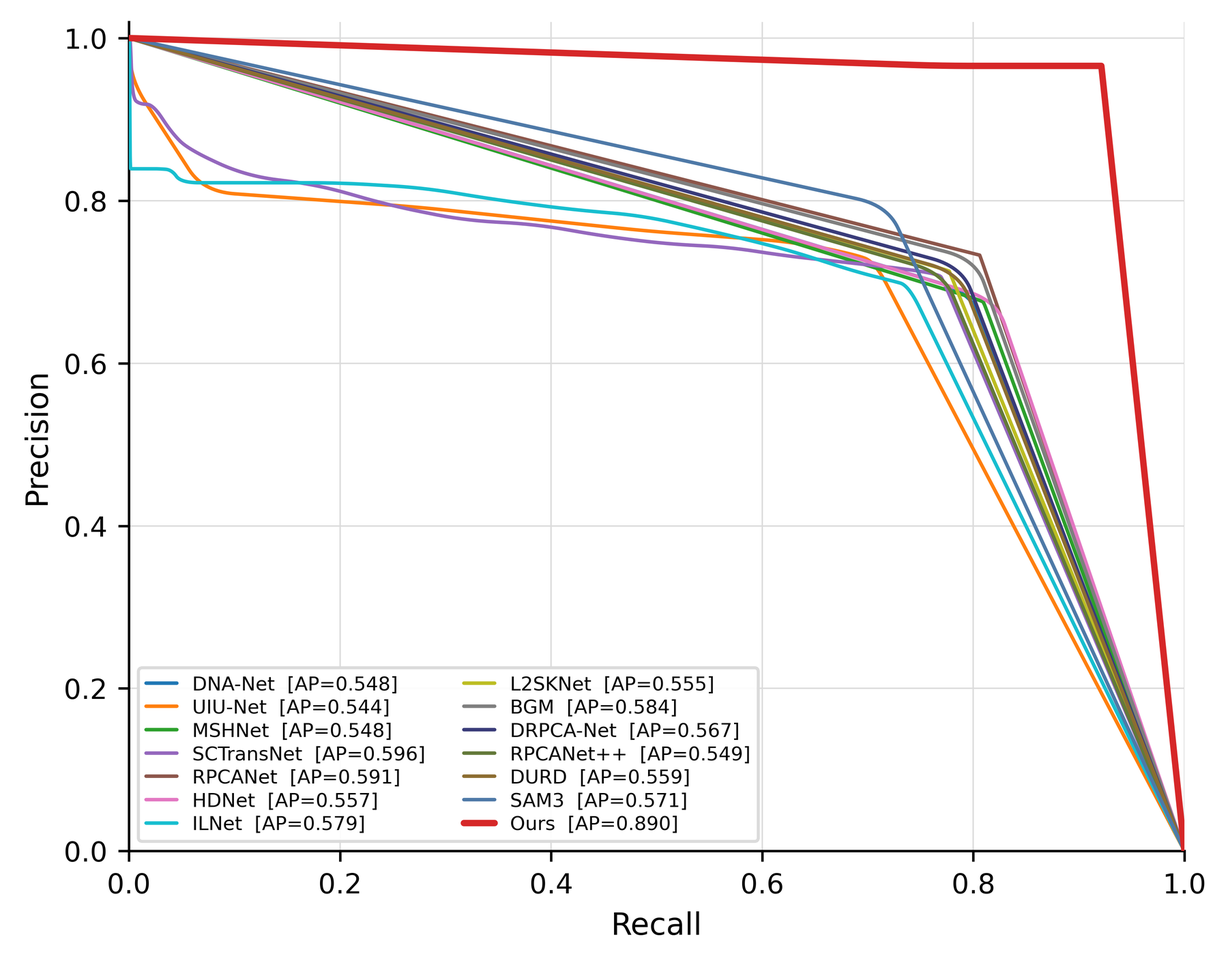
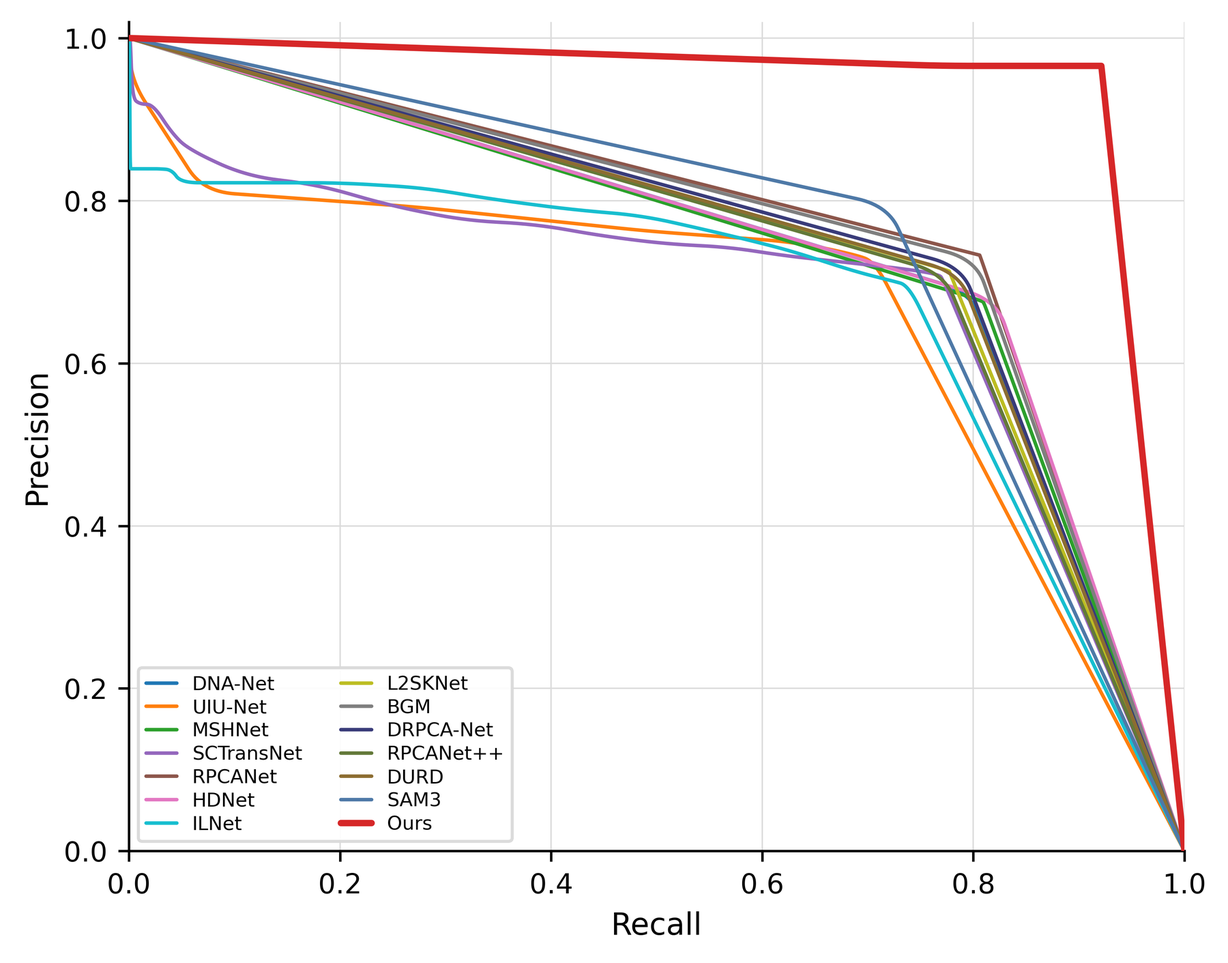
pr_obj 图例只保留方法名
- 去掉图例里每个方法后的 "[AP=0.xxx]"，图例回到 14 个纯方法名；
- plot_pr_object.py 新增 --show-ap 开关（默认关），需要把 AP 标回图上时再打开；
- AP 数值仍完整记录在 docs/Seal_ROC_PR曲线.md 的表里，不丢数据；
- pr_obj.png sha256 c1d2212c…，已同步服务器；docs 预览与 AGENTS/README 同步。

Changed region(s): [[0.1556, 0.686, 0.6222, 0.8731]]

diff --git a/tools/plot_pr_object.py b/tools/plot_pr_object.py
@@ -126,6 +126,10 @@ def main():
     ap.add_argument('--highlight', default='Ours')
     ap.add_argument('--legend-loc', default='lower left')
     ap.add_argument('--legend-ncol', type=int, default=2)
+    ap.add_argument('--show-ap', dest='show_ap', action='store_true',
+                    help='append "[AP=0.xxx]" to each legend entry')
+    ap.add_argument('--no-show-ap', dest='show_ap', action='store_false')
+    ap.set_defaults(show_ap=False)
     ap.add_argument('--corner-radius', type=float, default=0.018,
                     help='fillet radius in axis units for the elbows (0 = sharp corners)')
     ap.add_argument('--close', dest='close', action='store_true',
@@ -159,7 +163,7 @@ def main():
         ax.plot(xs, ys, color=cmap[m['label']], solid_capstyle='round',
                 solid_joinstyle='round',
                 lw=2.1 if main_ else 1.15, zorder=6 if main_ else 3,
-                label=f"{m['label']}  [AP={score:.3f}]")
+                label=f"{m['label']}  [AP={score:.3f}]" if args.show_ap else m['label'])
 
     ax.set_xlim(0, 1.0)
     ax.set_ylim(0, 1.02)

diff --git a/README.md b/README.md
@@ -61,6 +61,7 @@
 - 热红外 8 位转换结论：用 1–99 百分位裁剪再拉伸会放大约 10 倍背景噪声（目标 SNR 降到 1.5），纯区域损失退化为常数输出（val IoU 恒为 0）；改为逐图 min-max 后目标与背景差值是背景 std 的 2.2–29.7 倍，训练正常。后续不得再用百分位裁剪生成输入。
 - 表中位置：第 21～32 行，Modal 记 `T`，Supervision 记 `Full GT`，重训/测试列写明「Seal train 全监督重训 → Seal test」。第 21～23 行为第一批（2022–2024），第 24～28 行为第二批（2024/2025/2026），第 29～32 行为第三批（2025–2026）。第 33 行为 SAM3（RGB、Full GT、官方权重测试），第 34～35 行为本文方法变体（B+Fusion 已填、多模态 LoRA+Fusion 待填），第 34/35 行不是对比方法。这些行与第 3～20 行的弱监督跨域结果不是同一协议，不能互相替代或混填。
 - 论文采用的对比集合（**8 个**，重点维护）：**DNA-Net、MSHNet、RPCANet、HDNet、L2SKNet、BGM、RPCANet++、SAM3**。这 8 个是正文表格、定性图（11 样例、7 列版式）、ROC / P-R 曲线（`Ours/roc_pr/v10`，P-R 展示改进见 `v13`）与复杂度对照所用的集合；其余 4 个（UIU-Net、SCTransNet、ILNet、DURD）作为补充基线保留在第 21～32 行与各自实验记录中，不进入正文主对比。改动其中之一（权重、epoch、指标）仍须走本文档的全监督协议并同步实验记录。
+- 投稿稿在 `Ours/RGB_T_STD_RS/`（MDPI 模板，正文 `AS4000.tex`，**该目录尚未纳入 git**）。`tab:comparison`（`\begin{table*}[t]`，约第 981 行起）**2026-11-05 起改为 13 个全监督基线 + Ours 共 14 行**：在原 8 个之外补入 UIU-Net（TIP23）、SCTransNet（TGRS24）、ILNet（TAES25）、DRPCA-Net（TGRS25）、DURD（TGRS26），数值取自 `docs/Seal量化SOTA表.xlsx` 第 23/24/27/31/32 行，按表内既有规则取两位小数（FPS 先把 xlsx 值取一位小数再补成两位，例如 118.39→118.40、11.23→11.20；Fa 由 ×10⁻⁶ 值取两位）。**最/次优标记已在 2026-11-05 修正**：Fa 列基线间改为 ILNet `\best{19.30}`、SCTransNet `\second{25.28}`，HDNet 54.50 与 MSHNet 67.28 去掉标记（两行的 GFLOPs/Pd 标记仍有效）；用 `tmp/check_paper_table.py` 逐列校验过，7 列（Params/GFLOPs/FPS/IoU/F1/Pd/Fa）的 best/second 与数值全部一致，比较只在 13 个基线之间进行、Ours 行不参与（其 17.17 虽最低但不标）。**遗留问题**：① 表内 Ours 行**按用户决定保留** 9.09 / 110.11 / 13.61（Params 为可训练参数 M1+LoRA3+模态 LoRA≈9.08 M 的口径，与 2026-11-05 实测全网络 1690.108 M / 5935.732 GFLOPs / 9.65 FPS@1008² 不同，用户明确不改）；SAM3 行 473.59 / 7149.94 / 3.30 同样保留；表注不写 Ours 1008² 与基线 256² 单窗的口径差（用户决定不加）；② ILNet、DRPCA-Net、DURD 在 `ref.bib` 与 Related Work 中都没有引用条目，**用户表示后续自行补**，不要代改 `ref.bib`。
 - 复杂度（表中 `Params↓ / GFLOPs↓ / FPS↑` 三列，行 21～32）：单窗 `1×C×256×256`、FP32、batch 1、RTX 5090 实测，脚本 [tools/measure_complexity_one.py](tools/measure_complexity_one.py)（`--kind` 选方法，cwd 须为方法目录），原始 JSON 在服务器 `results/complexity/<kind>.json`。`Params` 取全部 `nn.Parameter`（不是 thop 的计数）；`GFLOPs` 取 thop **MACs**，即各论文写 "FLOPs/GFLOPs" 时的实际口径；`FPS` = 1/中位延迟（三轮 × 每轮 50 次 warm-up + 100 次计时，取最好一轮的中位数；每轮前先做负载把 GPU 时钟从空闲的 180 MHz 拉满，不预热会把 HDNet 误测成 155 ms）。Seal test 一张 622×417 是 **12 个滑窗**，故单图成本 ≈ 12×GFLOPs、单图吞吐 ≈ FPS/12。
 - 第 20 行 Ours 的同一三列是**原生 1008×1008 单图**实测（SAM3 视觉主干的 2D rope 频率表按 `input_size=1008` 固定，喂不进 256²）：**Params 1690.108 M**（两支冻结 SAM3 各 843.672 + LoRA3 1.573 + M1 1.191，真正可训练只有 2.764 M）、**GFLOPs 5935.732**（`FlopCounterMode` 的乘加数；thop 不统计 SDPA 会漏算）、**FPS 9.65**（中位 103.61 ms，bf16，每图 1 次前向、不需滑窗；`Ours/CODE/efficiency.py` 自带结果为 1690.11 / 5935.73 / 9.72，与复核一致到 0.7 %）。这些数字**与行 21～32 的 256² 单窗不是同一协议**，正文与表注必须写清；换算成单图可比量后 Ours 是 5935.7 G/图、9.65 图/秒（最重的 RPCANet++ 为 2288.0 G/图、6.70 图/秒）。同 harness 变体：B+Fusion 841.70 / 5886.80 / 11.28，CM-LoRA+BISF（无 LoRA3）1688.53 / 5919.42 / 10.34。原始 JSON 在服务器 `results/complexity/ours_code.json`，日志在 `results/complexity/logs/`，复现脚本 `tmp/run_eff_1008.sh`、`tmp/run_eff_variants.sh`、`tmp/verify_eff.py`；口径与读法见 [Seal 复杂度指标说明](docs/Seal复杂度指标_说明.md)。服务器副本在 `Ours/CODE/`（只含代码、`SAM3_LoRA/`、`outputs/*/best/lora_weights.pt`、`train_logs2/`，不含 `test_maps` 与 `ablation` 图像）。
 - 复杂度与公开值的对照：有公开 Params 的 9 个与原论文/作者仓库一致（RPCANet++ 的 2.915 vs 2.962 是 thop 不计 `nn.LSTM` 的约定差，thop 口径 2.915336 M、全部参数 2.961582 M，模型相同）；ILNet 论文首页的 0.046 M / 2.19 GFLOPs 指 `ILNet_S`（实测 0.045980 M、512² 下 2.2146 G，与 2.19 G 差 1.1 %），本表训练的是仓库默认 `ILNet_L`（4.040 M），两者不是同一网络；BGM（`BasicUNet_plus` 主干）与 DURD（TGRS26 新文）两文及仓库均未给可比数字，只有我们的实测值。GFLOPs 与第三方 LPCNet 表（RTX 3090，arXiv:2607.04603v3 Tab. I）逐项吻合到 0.4–2.7 %（DNA-Net 14.282 vs 13.9、UIU-Net 54.501 vs 54.2、SCTransNet 10.119 vs 10.0、RPCANet 44.569 vs 44.3、RPCANet++ 190.669 vs 190），据此确认"论文 FLOPs = MACs"；PDDiff 表对 SCTransNet/HDNet 正好 2×、对 MSHNet 3.15×，属其自身口径问题，不作基准。FPS 跨论文不可比（PDDiff 是含整图滑窗的管线口径，ILNet 在 Jetson AGX Xavier 上测）：同批 5090 相对 3090 快 2.1–4.6×，只有 DNA-Net 为 1.45×（延迟由小卷积启动主导，复测分布很紧，非测错）。
@@ -69,7 +70,7 @@
 - 第三批（入表，行 29～32）：L2SKNet（TGRS25）、BGM（TGRS25）、DRPCA-Net（TGRS25）、DURD（TGRS26），均为 2025–2026 年、有官方代码的全监督单帧方法，12 个对比方法到此凑满。目录 `L2SKNet-main/`、`BGM-main/`、`DRPCA-Net-main/`、`DURD-main/`；训练设置：L2SKNet 150/Adam 5e-4、BGM 150/Adam 5e-4（两者模型输出已是概率，用概率空间 dataset 级 IoU）、DRPCA-Net 60/Adam 3e-5/dataset 级 SoftIoU + 0.01 MSE、DURD 100/Adam 1e-4/SoftIoU + 0.1 MSE。各处改动逐条写在对应实验记录与 [汇总](docs/Seal全监督基线评估汇总.md#训练不稳定与失败记录)。
 - 论文版式定性图（对齐 PDDiff Fig. 8/9）：[tools/build_paper_qualitative.py](tools/build_paper_qualitative.py)，每个样例两行（2D 二值面板 + 红框/放大插图；3D 响应面 `elev=26, azim=-64`、按面板 z 上限）。三条硬约束：① 3D 行必须喂**概率图**（`--surf-maps results/<M>/Seal/fullsup_test_maps`），二值图是 0/255 阶跃，画出来只有一根尖刺；② Seal 目标只有 3–5 px，`full` 版式（整幅 + 右下插图）在 0.87 in 列宽下几乎看不见，正式图用 `--roi-panels`（面板 = 6 倍放大 ROI，`--roi-min 64 --roi-margin 24`）；③ 11 列 × 11 样例按 9.6 in 出图，若按 7.2 in 排版表头掉到 5.6 pt，主图应拆成 `seal_pick6_roi` + `seal_pick5_roi` 两张。样例取 [docs/qualitative_rank_top200.json](docs/qualitative_rank_top200.json)（`score = F1(Ours) − mean_k F1(baseline_k)`，可用 [docs/qualitative_review_top200.html](docs/qualitative_review_top200.html) 逐图复核），当前采用排名 1,2,5,6,8,11,13,15,19,21,29 共 11 张，一键重建 [tools/make_paper_qualitative_pick.sh](tools/make_paper_qualitative_pick.sh)。Ours 预测在 `Ours/test_maps`（1,983 张概率图）、SAM3 在 `Ours/SAM3-test_maps`（同阈值 `>=128`）。版式规格、样例清单与读数见 [docs/Seal定性图_论文版式.md](docs/Seal定性图_论文版式.md)，预览 `docs/assets/seal_qualitative_pick6_roi.png`、`docs/assets/seal_qualitative_pick11_full.png`。全分辨率成品（600 dpi PNG + 矢量 PDF + meta，约 110 MB/版）按版本归档：服务器保留全部历史（v1 `Ours/qualitative/v1_20261104_11col/`、v2 `v2_20261105/`、v3 `v3_20261105/`、v4 `v4_20261105/`、v5 `v5_20261105/`、v6 `v6_20261105/`、v7 `v7_20261105/`、v8 `v8_20261105/`、v9 `v9_20261105/`、v10 `v10_20261105/`、v11 `v11_20261105/`、v12 `v12_20261105/`），本地只留最新一版在 `Ours/qualitative/v12_20261105/`；**整个 `Ours/qualitative/` 不进 git**（`.gitignore` 整目录排除，只有 `docs/assets/` 里的 1800 px 预览入库）。版式演进：v2 压紧列间距、3D 加网格 + 整数刻度 + 轴名、去掉黑色粗轴线；v3 加单图拆分与 Visio；v4 让 3D 盒子铺满格子（按格子尺寸渲染 PNG → 裁白边 → `aspect='auto'` 贴回）；**v5 解决「3D 白边仍偏大、峰不够高不够显眼」：裁边 26→6 px、平滑 σ 2.0→0.9、`vmax` 取平滑后峰值（峰顶到天花板）、Z 轴统一 0–255 保证跨列可比、盒子 z 比例 0.55→1.00、自定义 `seal3d` 色带（深蓝底→青→黄→亮红）+ `PowerNorm(0.45)`**；并新增 `--diag` 诊断面板（TP 白 / FP 红 / FN 绿 + 红框标 GT），Visio 改用诊断面板；**v6 把诊断面板的红框放大到至少占面板 36%（约 138 px、3 px 线）**；**v11：Ours 换成 1105 最新预测**（`Ours/test_maps` ← `1105Ours_result/Ours.zip`，旧预测存 `Ours/test_maps_20261105_prev`），版式同 v10；11 个样例在新预测下 F1 0.55–0.87、目标全检出（9 个胜全部基线，2 个仅比 SAM3 低 0.01–0.02），故沿用原 11 张；**v10 红框只留一个**：Image 列回到整幅 622×417（压缩成正方形）并画唯一一个正方形红框（v11 曾把边长统一为 `64×sqrt(sx·sy)≈48 px`；**v12 起 Image 列不再画任何红框**——统一 48 px 对 2688/2120/2894 三个大目标偏小、目标露到框外，而各列本来就是同一 ROI 的 6 倍放大，定位框不再必要，实测 Image 列 0 个红色像素；`--image-box` 仅保留为复现 v10/v11 的开关），Mask…Ours 不再画任何红框，保留 TP 白/FP 红/FN 绿；**v12 同时收紧 3D 刻度**：刻度数字向坐标轴收拢（x/y `pad` −3.0→−4.2、z −1.5→−2.2，字号 2.2→2.35），3D 渲染改用 `bbox_inches='tight'` 并统一贴到 848×804 画布（此前 3D 轴的数字画在 axes 之外、被画布直接裁掉，放进 Visio 后又被下一个样例的表头挡住），Visio `ALL` 页的 3D 图缩到 1.07 in 高（宽同比 1.129）让开下一块表头，2D 行与手画红框位置不动；`--image-mode crop417` 可换成 417×417 原比例窗口；**v9 去掉黑边**：ROI 从「以目标为中心后按边界裁」改成「固定边长正方形、贴边整体内移」，窗口永远完整落在图像内（此前 2735 这类贴右边界的样例裁成 64×43 后被补黑）；**v8 修正 Image 列**：原来它是整幅 622×417（红框=ROI 窗口），而 Mask/方法列是已经放大 6 倍的 ROI 块（红框=GT 定位框），两者天然不对应——现在 Image 列也取同一块 ROI 的 6 倍放大并套同一个定位框，11 列视野与框位置完全一致——红框是给人定位用的，v5 那版只比 GT 外扩 8 px，印刷尺寸下等于没有。**v7 再优化三点：① 3D 网格线 0.62 灰 / 0.45 pt、刻度数字 2.2 pt 近黑、每轴 3 个好刻度、去掉会撞车的 X/Y/Z 轴名；② Image 列 3D 改彩色（`seal3d` 色带 + 线性映射，与 PDDiff 一致）；③ 诊断面板遇到多目标时每个连通域各画一个红框（单目标 36% 面板、多目标 0.45/n）**。Visio 版由 [tools/make_visio_qualitative.ps1](tools/make_visio_qualitative.ps1) 用 Visio COM 生成（仅 Windows + 已装 Visio）：**第 1 页 `ALL` 把 11 个样例纵向摞成一页**（表头只出现一次，253 个形状，15×31.3 in），之后每样例一页（每页 34 个独立形状：表头矩形 + 22 张图片 + 页脚说明），全部可手动调整格式。
 - 定性图（论文拼图用）：12 个方法与 Ours 的二值预测图在 `results/<Method>/Seal/test_binary/`（1,983 张，`pixel >= 128` → 255），由 [tools/make_binary_maps.py](tools/make_binary_maps.py) 与 [tools/make_qualitative.sh](tools/make_qualitative.sh) 生成；样例拼图在服务器 `qualitative/<stem>/panel.png`（RGB/热红外/GT/预测叠加，13 行），样例清单 `docs/Seal定性对比样例.json`，说明见 [docs/Seal定性对比图.md](docs/Seal定性对比图.md)。
-- ROC / P-R / Pd–Fa 曲线：像素级曲线用 [tools/roc_hist.py](tools/roc_hist.py) 把预测值按 GT 前景（`gt > 127`）/背景分箱成 256 桶直方图（[tools/roc_hist_all.sh](tools/roc_hist_all.sh) → `results/roc_hist/<Method>.json`），目标级曲线用 [tools/target_curves.py](tools/target_curves.py) 在 63 个阈值上做 8 连通 + 质心 <3 px 一对一匹配（[tools/target_curves_all.sh](tools/target_curves_all.sh) 13 进程并行约 1.5 h → `results/target_curves/<Method>.json`）；出图分别是 [tools/plot_roc_pr.py](tools/plot_roc_pr.py) 与 [tools/plot_target_curves.py](tools/plot_target_curves.py)。产物按版本存 `Ours/roc_pr/<version>/`，**`v10_20261105/`（正文主图，Ours + 8 个重点对比方法：DNA-Net / MSHNet / RPCANet / HDNet / L2SKNet / BGM / RPCANet++ / SAM3）与 `v11_20261105/`（全量 14 条：再加 UIU-Net / SCTransNet / ILNet / DRPCA-Net / DURD）**，两者横轴都改成 **0–16×10⁻⁴（刻度 0/4/8/12/16）**，斜线因此更陡；**v10 用 1:1 坐标框（`--square`），v11 用 6.8×3.3 的长方形画布（不带 `--square`，约 1.92:1，用户偏好）**；`v9_20261105/`（全量）与 `v8_20261105/`（8 个）是 8×10⁻⁴ 宽扁版式的前身**，画法沿用 v5，Ours 红色加粗置顶（`--highlight Ours`）；`v7_20261105/` 是旧 Ours 预测的同一版式，`v6_20261105/` 是误删 Ours 的一版，二者仅留档；`v5_20261105/` 为 13 方法版（Ours + 12 基线），**`v12_20261105/` 为现行目标级 Pd–Fa（1105 批次，线性 + log）**，**`v13_20261105/` 是 v11 的 P-R 改进版**（画布、ROC 与 v11 逐点相同，只改 P-R 的显示：`--pr-min-pred 50000` + `--pr-endpoint-dot`，见下条），`v3_20261105/` 为旧预测的目标级版，`v4/v2/v1` 留档；每次同时存 PNG（600 dpi）与 PDF + `curves.json` + `summary.md`。**画法（用户明确要求）**：每个方法一条折线且只有两段直线——`(0,0) → 拐点 → (右边框, 平台)`；平台取右边框处的值（像素级 = TPR@FPR=窗口右端，目标级 = max Pd），拐点 = 沿横轴升序第一个 ≥0.98×平台 的点（`--two-segment`、`--knee-frac`）。横轴要够长（v10/v11 用 `--xmax 16e-4 --fig-width 4.8 --square`；v8/v9 为 `--xmax 8e-4 --fig-width 6.8`），否则平台贴右边框、看起来"戛然而止"；**`--square` 把坐标框设成 1:1**（`set_box_aspect(1)`），ROC 的斜线与纵轴夹角更小、P-R 是标准 45°；**`--legend-inside` 把图例放进坐标框**（ROC 右下、P-R 左下，>9 条自动两列），导出的 PNG 因此更紧凑（v10 正方形 2645×2564；v11 长方形 3589×1871）；两联图 `roc_pr` 的面板间距 0.28→0.14；改横轴时平台值按新的右边框取（`TPR@窗口右端`），所以 8→16×10⁻⁴ 后 SCTransNet/ILNet/UIU-Net 的平台从 0.88 升到 0.94；**面积指标仍报 `pAUC@5×10⁻⁴`**，该列不随画宽变化；P-R 保留 (0,1) 起点与 recall→1 的尾巴（`--pr-style v1`）；**P-R 为什么像"扇子且在半空截断"（v13 处理）**：Seal 预测是 8 位量化 + 大量硬零（`t=255` 时前景召回只有 0.25–0.61，多数方法在 28–57 % 的 GT 像素上恒为 0），recall 到不了 1，曲线右端自然停住；同时 `t` 接近 255 时整幅只剩几千个预测像素，precision 由个位数像素决定，于是 recall≈0 处冒出竖直毛刺、各条曲线分叉成扇面。v13 用两个**纯显示**开关处理、不动数据：`--pr-min-pred 50000` 丢掉"预测像素 < 5 万"的阈值（毛刺缩到几乎看不见）、`--pr-endpoint-dot` 在每条曲线末端加圆点（读作"到此为止"而非"画漏了"）；仍保留 (0,1) 哨兵，因为去掉后起点悬空（`--pr-style v2` 试过）。数据侧原因（硬零压低 recall）只能靠模型/后处理改，画图解决不了，分析见 [docs/Seal_ROC_PR曲线.md](docs/Seal_ROC_PR曲线.md)；**补充图 `v13_20261105/pr_1.{png,pdf}`**（`--pr-close`）把每条曲线从最后实测点**虚线**外推到 `(1,0)`、交接点画空心圆（实线=实测、虚线=外推）：这不是新数据，只说明"曲线本来就该到 (1,0)"——`recall=1` 时 precision 等于前景占比（Seal test 前景 105,712 px / 总 514,338,642 px = **2.06×10⁻⁴**），在 0–1 纵轴上即 0，所以补到 (1,0) 与补到 (1,2e-4) 肉眼无差；中间段按直线近似故称"大致"，虚线段不参与 pAUC/AP 积分，排名不变；补齐后各虚线在右下角**收成一束**是应有现象，不表示方法接近；**教科书式 P-R 两张补充图**：`v13_20261105/pr_2.{png,pdf}`（像素级、sklearn 惯例：256 个阈值含 `t=0`"全预测"、保留 (0,1) 哨兵，曲线自然终止于 (1,0)，AP 与 summary 一致 0.69984）与 `v13_20261105/pr_obj.{png,pdf}`（**对象级**：`recall` = 表中 Pd、`precision` = 匹配连通域 / 全部预测连通域，匹配规则与 Pd/Fa 相同；`t=128` 的 recall 与表中 Pd 逐位吻合、精度 Ours 0.960 vs 基线 0.66–0.75，Ours AP 0.890 vs 0.544–0.596，形状与参考图同形"高平台 + 右端陡降"，末端用实线同色补到 (1,0)、不画点、拐角 `--corner-radius 0.03` 贝塞尔倒角（图注须写明 0.71–0.92 → 1.0 那段不是实测，因对象级召回上限只有 0.71–0.92））；实现 [tools/target_pr.py](tools/target_pr.py)（输出 `results/target_pr/<stem>.json`，[tools/target_pr_all.sh](tools/target_pr_all.sh) 并行约 12 min）、[tools/plot_pr_object.py](tools/plot_pr_object.py)、[tools/plot_pr_textbook.py](tools/plot_pr_textbook.py)；**参考图"精度贴 1.0 平推"像素级做不到**——0.02 % 前景下 255 这一筒的精度只有 Ours 0.835、SAM3 0.651、DNA-Net 0.390，像素级只能从 0.83 起步；正文若配像素级 ROC 用 `pr_2`，配目标级 Pd–Fa（v12）用 `pr_obj`，两者 AP 不可互比、都不进 xlsx；图例贴紧坐标轴右缘（`bbox_to_anchor=(ax.x1+0.012, …)`，锚在固定图幅比例上会留一大片空白）；`--highlight` 指定加粗置顶的方法（默认 `Ours`，方法集里没有它时不加粗）；**红色只留给 highlight**，其余曲线从不含红色的 16 色调色板里取（`color_map()`），否则 14 条曲线时第一个基线和 Ours 会同为红色。**一致性**：像素级 `t=128` 的 precision/recall 可复原表中 F1/IoU（Ours precision 0.58130、recall 0.82963 → F1 0.68361、IoU 0.51931，与第 20 行一致；旧预测同点为 0.64637/0.59388 → 0.61912/0.44835）；目标级 `t=128` 的 Pd/Fa 与表中 13 行全部逐位吻合（Ours 0.89151 / 1.717e-05，与第 20 行一致；旧预测 0.82731 / 2.100e-06 存档于 `results/target_curves/Ours_prev_20261105.json`）。**读图**：① 面积指标报 **pAUC@5×10⁻⁴**（基线操作点 Fa@t=128 ≤ 2.4×10⁻⁴）；v8 换上 1105 的最新 Ours 后，两个窗口的 pAUC（**0.85234 / 0.89420**）与 AP（**0.69984**）都第一，像素 TPR@t=128 从 0.594 提到 **0.830**、FPR 从 6.7×10⁻⁵ 升到 1.2×10⁻⁴（仍是 9 个里第二低）；ROC 上 Ours 在 FPR≈3×10⁻⁴ 就到 0.94 平台，其余 8 个最高只有 0.737；SAM3 平台最高（0.737）但拐点在 4.9×10⁻⁴、Fa 是 Ours 的 3.6 倍，属"用更多误检换更高检出"，正文要把 Fa 一并给出；画到 8×10⁻⁴ 后按窗口积的 `pAUC@8×10⁻⁴` 会把弥散输出方法抬高，summary 两个窗口都列；② 全范围 AUC 不能用来排名（几乎不预测前景的方法 0.977–0.981），与 S/MAE 被背景主导同类；③ 目标级图（`v12_20261105/`，1105 批次）Ours 平台 Pd 0.922 最高、拐点 Fa 6.0×10⁻⁶ 比次优 HDNet（5.2×10⁻⁵）低 8.6 倍，拐点 Fa 跨度 17 倍，**目标级仍主推 log 轴**；④ 像素级 `Pd@t=128` 是前景像素召回率，与表中目标级 Pd 不同口径。曲线成品按同样目录结构同步到服务器 `Ours/roc_pr/`，重画脚本同步在服务器 `tools/`；1105 的 Ours 预测包同时上传到服务器 `Ours/1105Ours_result/Ours.zip`。**曲线与第 20 行 Ours 的八项指标现在同为 1105 这批预测**，可以互相引证；旧预测（`test_maps_20261105_prev`）的曲线与指标只作历史对照。口径、版本对照与复现命令见 [docs/Seal_ROC_PR曲线.md](docs/Seal_ROC_PR曲线.md)，预览 `docs/assets/seal_roc_pr_v13.png`（现行，全量 14 条）、`docs/assets/seal_roc_pr_v10.png`（8 个对比方法版）、`docs/assets/seal_pd_fa_v12.png`（现行目标级）、`docs/assets/seal_pd_fa_v3.png`（旧预测目标级）。
+- ROC / P-R / Pd–Fa 曲线：像素级曲线用 [tools/roc_hist.py](tools/roc_hist.py) 把预测值按 GT 前景（`gt > 127`）/背景分箱成 256 桶直方图（[tools/roc_hist_all.sh](tools/roc_hist_all.sh) → `results/roc_hist/<Method>.json`），目标级曲线用 [tools/target_curves.py](tools/target_curves.py) 在 63 个阈值上做 8 连通 + 质心 <3 px 一对一匹配（[tools/target_curves_all.sh](tools/target_curves_all.sh) 13 进程并行约 1.5 h → `results/target_curves/<Method>.json`）；出图分别是 [tools/plot_roc_pr.py](tools/plot_roc_pr.py) 与 [tools/plot_target_curves.py](tools/plot_target_curves.py)。产物按版本存 `Ours/roc_pr/<version>/`，**`v10_20261105/`（正文主图，Ours + 8 个重点对比方法：DNA-Net / MSHNet / RPCANet / HDNet / L2SKNet / BGM / RPCANet++ / SAM3）与 `v11_20261105/`（全量 14 条：再加 UIU-Net / SCTransNet / ILNet / DRPCA-Net / DURD）**，两者横轴都改成 **0–16×10⁻⁴（刻度 0/4/8/12/16）**，斜线因此更陡；**v10 用 1:1 坐标框（`--square`），v11 用 6.8×3.3 的长方形画布（不带 `--square`，约 1.92:1，用户偏好）**；`v9_20261105/`（全量）与 `v8_20261105/`（8 个）是 8×10⁻⁴ 宽扁版式的前身**，画法沿用 v5，Ours 红色加粗置顶（`--highlight Ours`）；`v7_20261105/` 是旧 Ours 预测的同一版式，`v6_20261105/` 是误删 Ours 的一版，二者仅留档；`v5_20261105/` 为 13 方法版（Ours + 12 基线），**`v12_20261105/` 为现行目标级 Pd–Fa（1105 批次，线性 + log）**，**`v13_20261105/` 是 v11 的 P-R 改进版**（画布、ROC 与 v11 逐点相同，只改 P-R 的显示：`--pr-min-pred 50000` + `--pr-endpoint-dot`，见下条），`v3_20261105/` 为旧预测的目标级版，`v4/v2/v1` 留档；每次同时存 PNG（600 dpi）与 PDF + `curves.json` + `summary.md`。**画法（用户明确要求）**：每个方法一条折线且只有两段直线——`(0,0) → 拐点 → (右边框, 平台)`；平台取右边框处的值（像素级 = TPR@FPR=窗口右端，目标级 = max Pd），拐点 = 沿横轴升序第一个 ≥0.98×平台 的点（`--two-segment`、`--knee-frac`）。横轴要够长（v10/v11 用 `--xmax 16e-4 --fig-width 4.8 --square`；v8/v9 为 `--xmax 8e-4 --fig-width 6.8`），否则平台贴右边框、看起来"戛然而止"；**`--square` 把坐标框设成 1:1**（`set_box_aspect(1)`），ROC 的斜线与纵轴夹角更小、P-R 是标准 45°；**`--legend-inside` 把图例放进坐标框**（ROC 右下、P-R 左下，>9 条自动两列），导出的 PNG 因此更紧凑（v10 正方形 2645×2564；v11 长方形 3589×1871）；两联图 `roc_pr` 的面板间距 0.28→0.14；改横轴时平台值按新的右边框取（`TPR@窗口右端`），所以 8→16×10⁻⁴ 后 SCTransNet/ILNet/UIU-Net 的平台从 0.88 升到 0.94；**面积指标仍报 `pAUC@5×10⁻⁴`**，该列不随画宽变化；P-R 保留 (0,1) 起点与 recall→1 的尾巴（`--pr-style v1`）；**P-R 为什么像"扇子且在半空截断"（v13 处理）**：Seal 预测是 8 位量化 + 大量硬零（`t=255` 时前景召回只有 0.25–0.61，多数方法在 28–57 % 的 GT 像素上恒为 0），recall 到不了 1，曲线右端自然停住；同时 `t` 接近 255 时整幅只剩几千个预测像素，precision 由个位数像素决定，于是 recall≈0 处冒出竖直毛刺、各条曲线分叉成扇面。v13 用两个**纯显示**开关处理、不动数据：`--pr-min-pred 50000` 丢掉"预测像素 < 5 万"的阈值（毛刺缩到几乎看不见）、`--pr-endpoint-dot` 在每条曲线末端加圆点（读作"到此为止"而非"画漏了"）；仍保留 (0,1) 哨兵，因为去掉后起点悬空（`--pr-style v2` 试过）。数据侧原因（硬零压低 recall）只能靠模型/后处理改，画图解决不了，分析见 [docs/Seal_ROC_PR曲线.md](docs/Seal_ROC_PR曲线.md)；**补充图 `v13_20261105/pr_1.{png,pdf}`**（`--pr-close`）把每条曲线从最后实测点**虚线**外推到 `(1,0)`、交接点画空心圆（实线=实测、虚线=外推）：这不是新数据，只说明"曲线本来就该到 (1,0)"——`recall=1` 时 precision 等于前景占比（Seal test 前景 105,712 px / 总 514,338,642 px = **2.06×10⁻⁴**），在 0–1 纵轴上即 0，所以补到 (1,0) 与补到 (1,2e-4) 肉眼无差；中间段按直线近似故称"大致"，虚线段不参与 pAUC/AP 积分，排名不变；补齐后各虚线在右下角**收成一束**是应有现象，不表示方法接近；**教科书式 P-R 两张补充图**：`v13_20261105/pr_2.{png,pdf}`（像素级、sklearn 惯例：256 个阈值含 `t=0`"全预测"、保留 (0,1) 哨兵，曲线自然终止于 (1,0)，AP 与 summary 一致 0.69984）与 `v13_20261105/pr_obj.{png,pdf}`（**对象级**：`recall` = 表中 Pd、`precision` = 匹配连通域 / 全部预测连通域，匹配规则与 Pd/Fa 相同；`t=128` 的 recall 与表中 Pd 逐位吻合、精度 Ours 0.960 vs 基线 0.66–0.75，Ours AP 0.890 vs 0.544–0.596，形状与参考图同形"高平台 + 右端陡降"，末端用实线同色补到 (1,0)、不画点、拐角 `--corner-radius 0.03` 贝塞尔倒角，**图例只写方法名**（AP 见 [docs/Seal_ROC_PR曲线.md](docs/Seal_ROC_PR曲线.md) 的表，要标回图上加 `--show-ap`）；图注须写明 0.71–0.92 → 1.0 那段不是实测，因对象级召回上限只有 0.71–0.92））；实现 [tools/target_pr.py](tools/target_pr.py)（输出 `results/target_pr/<stem>.json`，[tools/target_pr_all.sh](tools/target_pr_all.sh) 并行约 12 min）、[tools/plot_pr_object.py](tools/plot_pr_object.py)、[tools/plot_pr_textbook.py](tools/plot_pr_textbook.py)；**参考图"精度贴 1.0 平推"像素级做不到**——0.02 % 前景下 255 这一筒的精度只有 Ours 0.835、SAM3 0.651、DNA-Net 0.390，像素级只能从 0.83 起步；正文若配像素级 ROC 用 `pr_2`，配目标级 Pd–Fa（v12）用 `pr_obj`，两者 AP 不可互比、都不进 xlsx；图例贴紧坐标轴右缘（`bbox_to_anchor=(ax.x1+0.012, …)`，锚在固定图幅比例上会留一大片空白）；`--highlight` 指定加粗置顶的方法（默认 `Ours`，方法集里没有它时不加粗）；**红色只留给 highlight**，其余曲线从不含红色的 16 色调色板里取（`color_map()`），否则 14 条曲线时第一个基线和 Ours 会同为红色。**一致性**：像素级 `t=128` 的 precision/recall 可复原表中 F1/IoU（Ours precision 0.58130、recall 0.82963 → F1 0.68361、IoU 0.51931，与第 20 行一致；旧预测同点为 0.64637/0.59388 → 0.61912/0.44835）；目标级 `t=128` 的 Pd/Fa 与表中 13 行全部逐位吻合（Ours 0.89151 / 1.717e-05，与第 20 行一致；旧预测 0.82731 / 2.100e-06 存档于 `results/target_curves/Ours_prev_20261105.json`）。**读图**：① 面积指标报 **pAUC@5×10⁻⁴**（基线操作点 Fa@t=128 ≤ 2.4×10⁻⁴）；v8 换上 1105 的最新 Ours 后，两个窗口的 pAUC（**0.85234 / 0.89420**）与 AP（**0.69984**）都第一，像素 TPR@t=128 从 0.594 提到 **0.830**、FPR 从 6.7×10⁻⁵ 升到 1.2×10⁻⁴（仍是 9 个里第二低）；ROC 上 Ours 在 FPR≈3×10⁻⁴ 就到 0.94 平台，其余 8 个最高只有 0.737；SAM3 平台最高（0.737）但拐点在 4.9×10⁻⁴、Fa 是 Ours 的 3.6 倍，属"用更多误检换更高检出"，正文要把 Fa 一并给出；画到 8×10⁻⁴ 后按窗口积的 `pAUC@8×10⁻⁴` 会把弥散输出方法抬高，summary 两个窗口都列；② 全范围 AUC 不能用来排名（几乎不预测前景的方法 0.977–0.981），与 S/MAE 被背景主导同类；③ 目标级图（`v12_20261105/`，1105 批次）Ours 平台 Pd 0.922 最高、拐点 Fa 6.0×10⁻⁶ 比次优 HDNet（5.2×10⁻⁵）低 8.6 倍，拐点 Fa 跨度 17 倍，**目标级仍主推 log 轴**；④ 像素级 `Pd@t=128` 是前景像素召回率，与表中目标级 Pd 不同口径。曲线成品按同样目录结构同步到服务器 `Ours/roc_pr/`，重画脚本同步在服务器 `tools/`；1105 的 Ours 预测包同时上传到服务器 `Ours/1105Ours_result/Ours.zip`。**曲线与第 20 行 Ours 的八项指标现在同为 1105 这批预测**，可以互相引证；旧预测（`test_maps_20261105_prev`）的曲线与指标只作历史对照。口径、版本对照与复现命令见 [docs/Seal_ROC_PR曲线.md](docs/Seal_ROC_PR曲线.md)，预览 `docs/assets/seal_roc_pr_v13.png`（现行，全量 14 条）、`docs/assets/seal_roc_pr_v10.png`（8 个对比方法版）、`docs/assets/seal_pd_fa_v12.png`（现行目标级）、`docs/assets/seal_pd_fa_v3.png`（旧预测目标级）。
 - IoU 的边界敏感性：Seal 目标平均 14.3 像素，把 GT 膨胀/腐蚀 1 像素当预测只能得到 IoU 0.3910 / 0.0826；表中 IoU 0.19–0.31 对应约 1–2 像素边界误差，不能读作分割质量百分比，须与 Fw/F1/Pd/Fa 合看，详见 [定义对照](docs/小目标评价指标_定义与代码对照.md#iou-的边界敏感性seal-gt-实测)。
 - 实验记录：[ACM](docs/ACM_Seal实验记录.md)、[DNA-Net](docs/DNANet_Seal实验记录.md)、[MSHNet](docs/MSHNet_Seal实验记录.md)、[UIU-Net](docs/UIU-Net_Seal实验记录.md)、[SCTransNet](docs/SCTransNet_Seal实验记录.md)、[RPCANet](docs/RPCANet_Seal实验记录.md)、[HDNet](docs/HDNet_Seal实验记录.md)、[ILNet](docs/ILNet_Seal实验记录.md)、[RPCANet++](docs/RPCANet++_Seal实验记录.md)、[L2SKNet](docs/L2SKNet_Seal实验记录.md)、[BGM](docs/BGM_Seal实验记录.md)、[DRPCA-Net](docs/DRPCA-Net_Seal实验记录.md)、[DURD](docs/DURD_Seal实验记录.md)、[DHiF](docs/DHiF_Seal实验记录.md)，汇总见 [Seal全监督基线评估汇总](docs/Seal全监督基线评估汇总.md)，定性图见 [Seal定性对比图](docs/Seal定性对比图.md)。
 

diff --git a/AGENTS.md b/AGENTS.md
@@ -67,7 +67,7 @@
 - 第三批（入表，行 29～32）：L2SKNet（TGRS25）、BGM（TGRS25）、DRPCA-Net（TGRS25）、DURD（TGRS26），均为 2025–2026 年、有官方代码的全监督单帧方法，12 个对比方法到此凑满。目录 `L2SKNet-main/`、`BGM-main/`、`DRPCA-Net-main/`、`DURD-main/`；训练设置：L2SKNet 150/Adam 5e-4、BGM 150/Adam 5e-4（两者模型输出已是概率，用概率空间 dataset 级 IoU）、DRPCA-Net 60/Adam 3e-5/dataset 级 SoftIoU + 0.01 MSE、DURD 100/Adam 1e-4/SoftIoU + 0.1 MSE。各处改动逐条写在对应实验记录与 [汇总](docs/Seal全监督基线评估汇总.md#训练不稳定与失败记录)。
 - 论文版式定性图（对齐 PDDiff Fig. 8/9）：[tools/build_paper_qualitative.py](tools/build_paper_qualitative.py)，每个样例两行（2D 二值面板 + 红框/放大插图；3D 响应面 `elev=26, azim=-64`、按面板 z 上限）。三条硬约束：① 3D 行必须喂**概率图**（`--surf-maps results/<M>/Seal/fullsup_test_maps`），二值图是 0/255 阶跃，画出来只有一根尖刺；② Seal 目标只有 3–5 px，`full` 版式（整幅 + 右下插图）在 0.87 in 列宽下几乎看不见，正式图用 `--roi-panels`（面板 = 6 倍放大 ROI，`--roi-min 64 --roi-margin 24`）；③ 11 列 × 11 样例按 9.6 in 出图，若按 7.2 in 排版表头掉到 5.6 pt，主图应拆成 `seal_pick6_roi` + `seal_pick5_roi` 两张。样例取 [docs/qualitative_rank_top200.json](docs/qualitative_rank_top200.json)（`score = F1(Ours) − mean_k F1(baseline_k)`，可用 [docs/qualitative_review_top200.html](docs/qualitative_review_top200.html) 逐图复核），当前采用排名 1,2,5,6,8,11,13,15,19,21,29 共 11 张，一键重建 [tools/make_paper_qualitative_pick.sh](tools/make_paper_qualitative_pick.sh)。Ours 预测在 `Ours/test_maps`（1,983 张概率图）、SAM3 在 `Ours/SAM3-test_maps`（同阈值 `>=128`）。版式规格、样例清单与读数见 [docs/Seal定性图_论文版式.md](docs/Seal定性图_论文版式.md)，预览 `docs/assets/seal_qualitative_pick6_roi.png`、`docs/assets/seal_qualitative_pick11_full.png`。全分辨率成品（600 dpi PNG + 矢量 PDF + meta，约 110 MB/版）按版本归档：服务器保留全部历史（v1 `Ours/qualitative/v1_20261104_11col/`、v2 `v2_20261105/`、v3 `v3_20261105/`、v4 `v4_20261105/`、v5 `v5_20261105/`、v6 `v6_20261105/`、v7 `v7_20261105/`、v8 `v8_20261105/`、v9 `v9_20261105/`、v10 `v10_20261105/`、v11 `v11_20261105/`、v12 `v12_20261105/`），本地只留最新一版在 `Ours/qualitative/v12_20261105/`；**整个 `Ours/qualitative/` 不进 git**（`.gitignore` 整目录排除，只有 `docs/assets/` 里的 1800 px 预览入库）。版式演进：v2 压紧列间距、3D 加网格 + 整数刻度 + 轴名、去掉黑色粗轴线；v3 加单图拆分与 Visio；v4 让 3D 盒子铺满格子（按格子尺寸渲染 PNG → 裁白边 → `aspect='auto'` 贴回）；**v5 解决「3D 白边仍偏大、峰不够高不够显眼」：裁边 26→6 px、平滑 σ 2.0→0.9、`vmax` 取平滑后峰值（峰顶到天花板）、Z 轴统一 0–255 保证跨列可比、盒子 z 比例 0.55→1.00、自定义 `seal3d` 色带（深蓝底→青→黄→亮红）+ `PowerNorm(0.45)`**；并新增 `--diag` 诊断面板（TP 白 / FP 红 / FN 绿 + 红框标 GT），Visio 改用诊断面板；**v6 把诊断面板的红框放大到至少占面板 36%（约 138 px、3 px 线）**；**v11：Ours 换成 1105 最新预测**（`Ours/test_maps` ← `1105Ours_result/Ours.zip`，旧预测存 `Ours/test_maps_20261105_prev`），版式同 v10；11 个样例在新预测下 F1 0.55–0.87、目标全检出（9 个胜全部基线，2 个仅比 SAM3 低 0.01–0.02），故沿用原 11 张；**v10 红框只留一个**：Image 列回到整幅 622×417（压缩成正方形）并画唯一一个正方形红框（v11 曾把边长统一为 `64×sqrt(sx·sy)≈48 px`；**v12 起 Image 列不再画任何红框**——统一 48 px 对 2688/2120/2894 三个大目标偏小、目标露到框外，而各列本来就是同一 ROI 的 6 倍放大，定位框不再必要，实测 Image 列 0 个红色像素；`--image-box` 仅保留为复现 v10/v11 的开关），Mask…Ours 不再画任何红框，保留 TP 白/FP 红/FN 绿；**v12 同时收紧 3D 刻度**：刻度数字向坐标轴收拢（x/y `pad` −3.0→−4.2、z −1.5→−2.2，字号 2.2→2.35），3D 渲染改用 `bbox_inches='tight'` 并统一贴到 848×804 画布（此前 3D 轴的数字画在 axes 之外、被画布直接裁掉，放进 Visio 后又被下一个样例的表头挡住），Visio `ALL` 页的 3D 图缩到 1.07 in 高（宽同比 1.129）让开下一块表头，2D 行与手画红框位置不动；`--image-mode crop417` 可换成 417×417 原比例窗口；**v9 去掉黑边**：ROI 从「以目标为中心后按边界裁」改成「固定边长正方形、贴边整体内移」，窗口永远完整落在图像内（此前 2735 这类贴右边界的样例裁成 64×43 后被补黑）；**v8 修正 Image 列**：原来它是整幅 622×417（红框=ROI 窗口），而 Mask/方法列是已经放大 6 倍的 ROI 块（红框=GT 定位框），两者天然不对应——现在 Image 列也取同一块 ROI 的 6 倍放大并套同一个定位框，11 列视野与框位置完全一致——红框是给人定位用的，v5 那版只比 GT 外扩 8 px，印刷尺寸下等于没有。**v7 再优化三点：① 3D 网格线 0.62 灰 / 0.45 pt、刻度数字 2.2 pt 近黑、每轴 3 个好刻度、去掉会撞车的 X/Y/Z 轴名；② Image 列 3D 改彩色（`seal3d` 色带 + 线性映射，与 PDDiff 一致）；③ 诊断面板遇到多目标时每个连通域各画一个红框（单目标 36% 面板、多目标 0.45/n）**。Visio 版由 [tools/make_visio_qualitative.ps1](tools/make_visio_qualitative.ps1) 用 Visio COM 生成（仅 Windows + 已装 Visio）：**第 1 页 `ALL` 把 11 个样例纵向摞成一页**（表头只出现一次，253 个形状，15×31.3 in），之后每样例一页（每页 34 个独立形状：表头矩形 + 22 张图片 + 页脚说明），全部可手动调整格式。
 - 定性图（论文拼图用）：12 个方法与 Ours 的二值预测图在 `results/<Method>/Seal/test_binary/`（1,983 张，`pixel >= 128` → 255），由 [tools/make_binary_maps.py](tools/make_binary_maps.py) 与 [tools/make_qualitative.sh](tools/make_qualitative.sh) 生成；样例拼图在服务器 `qualitative/<stem>/panel.png`（RGB/热红外/GT/预测叠加，13 行），样例清单 `docs/Seal定性对比样例.json`，说明见 [docs/Seal定性对比图.md](docs/Seal定性对比图.md)。
-- ROC / P-R / Pd–Fa 曲线：像素级曲线用 [tools/roc_hist.py](tools/roc_hist.py) 把预测值按 GT 前景（`gt > 127`）/背景分箱成 256 桶直方图（[tools/roc_hist_all.sh](tools/roc_hist_all.sh) → `results/roc_hist/<Method>.json`），目标级曲线用 [tools/target_curves.py](tools/target_curves.py) 在 63 个阈值上做 8 连通 + 质心 <3 px 一对一匹配（[tools/target_curves_all.sh](tools/target_curves_all.sh) 13 进程并行约 1.5 h → `results/target_curves/<Method>.json`）；出图分别是 [tools/plot_roc_pr.py](tools/plot_roc_pr.py) 与 [tools/plot_target_curves.py](tools/plot_target_curves.py)。产物按版本存 `Ours/roc_pr/<version>/`，**`v10_20261105/`（正文主图，Ours + 8 个重点对比方法：DNA-Net / MSHNet / RPCANet / HDNet / L2SKNet / BGM / RPCANet++ / SAM3）与 `v11_20261105/`（全量 14 条：再加 UIU-Net / SCTransNet / ILNet / DRPCA-Net / DURD）**，两者横轴都改成 **0–16×10⁻⁴（刻度 0/4/8/12/16）**，斜线因此更陡；**v10 用 1:1 坐标框（`--square`），v11 用 6.8×3.3 的长方形画布（不带 `--square`，约 1.92:1，用户偏好）**；`v9_20261105/`（全量）与 `v8_20261105/`（8 个）是 8×10⁻⁴ 宽扁版式的前身**，画法沿用 v5，Ours 红色加粗置顶（`--highlight Ours`）；`v7_20261105/` 是旧 Ours 预测的同一版式，`v6_20261105/` 是误删 Ours 的一版，二者仅留档；`v5_20261105/` 为 13 方法版（Ours + 12 基线），**`v12_20261105/` 为现行目标级 Pd–Fa（1105 批次，线性 + log）**，**`v13_20261105/` 是 v11 的 P-R 改进版**（画布、ROC 与 v11 逐点相同，只改 P-R 的显示：`--pr-min-pred 50000` + `--pr-endpoint-dot`，见下条），`v3_20261105/` 为旧预测的目标级版，`v4/v2/v1` 留档；每次同时存 PNG（600 dpi）与 PDF + `curves.json` + `summary.md`。**画法（用户明确要求）**：每个方法一条折线且只有两段直线——`(0,0) → 拐点 → (右边框, 平台)`；平台取右边框处的值（像素级 = TPR@FPR=窗口右端，目标级 = max Pd），拐点 = 沿横轴升序第一个 ≥0.98×平台 的点（`--two-segment`、`--knee-frac`）。横轴要够长（v10/v11 用 `--xmax 16e-4 --fig-width 4.8 --square`；v8/v9 为 `--xmax 8e-4 --fig-width 6.8`），否则平台贴右边框、看起来"戛然而止"；**`--square` 把坐标框设成 1:1**（`set_box_aspect(1)`），ROC 的斜线与纵轴夹角更小、P-R 是标准 45°；**`--legend-inside` 把图例放进坐标框**（ROC 右下、P-R 左下，>9 条自动两列），导出的 PNG 因此更紧凑（v10 正方形 2645×2564；v11 长方形 3589×1871）；两联图 `roc_pr` 的面板间距 0.28→0.14；改横轴时平台值按新的右边框取（`TPR@窗口右端`），所以 8→16×10⁻⁴ 后 SCTransNet/ILNet/UIU-Net 的平台从 0.88 升到 0.94；**面积指标仍报 `pAUC@5×10⁻⁴`**，该列不随画宽变化；P-R 保留 (0,1) 起点与 recall→1 的尾巴（`--pr-style v1`）；**P-R 为什么像"扇子且在半空截断"（v13 处理）**：Seal 预测是 8 位量化 + 大量硬零（`t=255` 时前景召回只有 0.25–0.61，多数方法在 28–57 % 的 GT 像素上恒为 0），recall 到不了 1，曲线右端自然停住；同时 `t` 接近 255 时整幅只剩几千个预测像素，precision 由个位数像素决定，于是 recall≈0 处冒出竖直毛刺、各条曲线分叉成扇面。v13 用两个**纯显示**开关处理、不动数据：`--pr-min-pred 50000` 丢掉"预测像素 < 5 万"的阈值（毛刺缩到几乎看不见）、`--pr-endpoint-dot` 在每条曲线末端加圆点（读作"到此为止"而非"画漏了"）；仍保留 (0,1) 哨兵，因为去掉后起点悬空（`--pr-style v2` 试过）。数据侧原因（硬零压低 recall）只能靠模型/后处理改，画图解决不了，分析见 [docs/Seal_ROC_PR曲线.md](docs/Seal_ROC_PR曲线.md)；**补充图 `v13_20261105/pr_1.{png,pdf}`**（`--pr-close`）把每条曲线从最后实测点**虚线**外推到 `(1,0)`、交接点画空心圆（实线=实测、虚线=外推）：这不是新数据，只说明"曲线本来就该到 (1,0)"——`recall=1` 时 precision 等于前景占比（Seal test 前景 105,712 px / 总 514,338,642 px = **2.06×10⁻⁴**），在 0–1 纵轴上即 0，所以补到 (1,0) 与补到 (1,2e-4) 肉眼无差；中间段按直线近似故称"大致"，虚线段不参与 pAUC/AP 积分，排名不变；补齐后各虚线在右下角**收成一束**是应有现象，不表示方法接近；**教科书式 P-R 两张补充图**：`v13_20261105/pr_2.{png,pdf}`（像素级、sklearn 惯例：256 个阈值含 `t=0`"全预测"、保留 (0,1) 哨兵，曲线自然终止于 (1,0)，AP 与 summary 一致 0.69984）与 `v13_20261105/pr_obj.{png,pdf}`（**对象级**：`recall` = 表中 Pd、`precision` = 匹配连通域 / 全部预测连通域，匹配规则与 Pd/Fa 相同；`t=128` 的 recall 与表中 Pd 逐位吻合、精度 Ours 0.960 vs 基线 0.66–0.75，Ours AP 0.890 vs 0.544–0.596，形状与参考图同形"高平台 + 右端陡降"，末端用实线同色补到 (1,0)、不画点、拐角 `--corner-radius 0.03` 贝塞尔倒角（图注须写明 0.71–0.92 → 1.0 那段不是实测，因对象级召回上限只有 0.71–0.92））；实现 [tools/target_pr.py](tools/target_pr.py)（输出 `results/target_pr/<stem>.json`，[tools/target_pr_all.sh](tools/target_pr_all.sh) 并行约 12 min）、[tools/plot_pr_object.py](tools/plot_pr_object.py)、[tools/plot_pr_textbook.py](tools/plot_pr_textbook.py)；**参考图"精度贴 1.0 平推"像素级做不到**——0.02 % 前景下 255 这一筒的精度只有 Ours 0.835、SAM3 0.651、DNA-Net 0.390，像素级只能从 0.83 起步；正文若配像素级 ROC 用 `pr_2`，配目标级 Pd–Fa（v12）用 `pr_obj`，两者 AP 不可互比、都不进 xlsx；图例贴紧坐标轴右缘（`bbox_to_anchor=(ax.x1+0.012, …)`，锚在固定图幅比例上会留一大片空白）；`--highlight` 指定加粗置顶的方法（默认 `Ours`，方法集里没有它时不加粗）；**红色只留给 highlight**，其余曲线从不含红色的 16 色调色板里取（`color_map()`），否则 14 条曲线时第一个基线和 Ours 会同为红色。**一致性**：像素级 `t=128` 的 precision/recall 可复原表中 F1/IoU（Ours precision 0.58130、recall 0.82963 → F1 0.68361、IoU 0.51931，与第 20 行一致；旧预测同点为 0.64637/0.59388 → 0.61912/0.44835）；目标级 `t=128` 的 Pd/Fa 与表中 13 行全部逐位吻合（Ours 0.89151 / 1.717e-05，与第 20 行一致；旧预测 0.82731 / 2.100e-06 存档于 `results/target_curves/Ours_prev_20261105.json`）。**读图**：① 面积指标报 **pAUC@5×10⁻⁴**（基线操作点 Fa@t=128 ≤ 2.4×10⁻⁴）；v8 换上 1105 的最新 Ours 后，两个窗口的 pAUC（**0.85234 / 0.89420**）与 AP（**0.69984**）都第一，像素 TPR@t=128 从 0.594 提到 **0.830**、FPR 从 6.7×10⁻⁵ 升到 1.2×10⁻⁴（仍是 9 个里第二低）；ROC 上 Ours 在 FPR≈3×10⁻⁴ 就到 0.94 平台，其余 8 个最高只有 0.737；SAM3 平台最高（0.737）但拐点在 4.9×10⁻⁴、Fa 是 Ours 的 3.6 倍，属"用更多误检换更高检出"，正文要把 Fa 一并给出；画到 8×10⁻⁴ 后按窗口积的 `pAUC@8×10⁻⁴` 会把弥散输出方法抬高，summary 两个窗口都列；② 全范围 AUC 不能用来排名（几乎不预测前景的方法 0.977–0.981），与 S/MAE 被背景主导同类；③ 目标级图（`v12_20261105/`，1105 批次）Ours 平台 Pd 0.922 最高、拐点 Fa 6.0×10⁻⁶ 比次优 HDNet（5.2×10⁻⁵）低 8.6 倍，拐点 Fa 跨度 17 倍，**目标级仍主推 log 轴**；④ 像素级 `Pd@t=128` 是前景像素召回率，与表中目标级 Pd 不同口径。曲线成品按同样目录结构同步到服务器 `Ours/roc_pr/`，重画脚本同步在服务器 `tools/`；1105 的 Ours 预测包同时上传到服务器 `Ours/1105Ours_result/Ours.zip`。**曲线与第 20 行 Ours 的八项指标现在同为 1105 这批预测**，可以互相引证；旧预测（`test_maps_20261105_prev`）的曲线与指标只作历史对照。口径、版本对照与复现命令见 [docs/Seal_ROC_PR曲线.md](docs/Seal_ROC_PR曲线.md)，预览 `docs/assets/seal_roc_pr_v13.png`（现行，全量 14 条）、`docs/assets/seal_roc_pr_v10.png`（8 个对比方法版）、`docs/assets/seal_pd_fa_v12.png`（现行目标级）、`docs/assets/seal_pd_fa_v3.png`（旧预测目标级）。
+- ROC / P-R / Pd–Fa 曲线：像素级曲线用 [tools/roc_hist.py](tools/roc_hist.py) 把预测值按 GT 前景（`gt > 127`）/背景分箱成 256 桶直方图（[tools/roc_hist_all.sh](tools/roc_hist_all.sh) → `results/roc_hist/<Method>.json`），目标级曲线用 [tools/target_curves.py](tools/target_curves.py) 在 63 个阈值上做 8 连通 + 质心 <3 px 一对一匹配（[tools/target_curves_all.sh](tools/target_curves_all.sh) 13 进程并行约 1.5 h → `results/target_curves/<Method>.json`）；出图分别是 [tools/plot_roc_pr.py](tools/plot_roc_pr.py) 与 [tools/plot_target_curves.py](tools/plot_target_curves.py)。产物按版本存 `Ours/roc_pr/<version>/`，**`v10_20261105/`（正文主图，Ours + 8 个重点对比方法：DNA-Net / MSHNet / RPCANet / HDNet / L2SKNet / BGM / RPCANet++ / SAM3）与 `v11_20261105/`（全量 14 条：再加 UIU-Net / SCTransNet / ILNet / DRPCA-Net / DURD）**，两者横轴都改成 **0–16×10⁻⁴（刻度 0/4/8/12/16）**，斜线因此更陡；**v10 用 1:1 坐标框（`--square`），v11 用 6.8×3.3 的长方形画布（不带 `--square`，约 1.92:1，用户偏好）**；`v9_20261105/`（全量）与 `v8_20261105/`（8 个）是 8×10⁻⁴ 宽扁版式的前身**，画法沿用 v5，Ours 红色加粗置顶（`--highlight Ours`）；`v7_20261105/` 是旧 Ours 预测的同一版式，`v6_20261105/` 是误删 Ours 的一版，二者仅留档；`v5_20261105/` 为 13 方法版（Ours + 12 基线），**`v12_20261105/` 为现行目标级 Pd–Fa（1105 批次，线性 + log）**，**`v13_20261105/` 是 v11 的 P-R 改进版**（画布、ROC 与 v11 逐点相同，只改 P-R 的显示：`--pr-min-pred 50000` + `--pr-endpoint-dot`，见下条），`v3_20261105/` 为旧预测的目标级版，`v4/v2/v1` 留档；每次同时存 PNG（600 dpi）与 PDF + `curves.json` + `summary.md`。**画法（用户明确要求）**：每个方法一条折线且只有两段直线——`(0,0) → 拐点 → (右边框, 平台)`；平台取右边框处的值（像素级 = TPR@FPR=窗口右端，目标级 = max Pd），拐点 = 沿横轴升序第一个 ≥0.98×平台 的点（`--two-segment`、`--knee-frac`）。横轴要够长（v10/v11 用 `--xmax 16e-4 --fig-width 4.8 --square`；v8/v9 为 `--xmax 8e-4 --fig-width 6.8`），否则平台贴右边框、看起来"戛然而止"；**`--square` 把坐标框设成 1:1**（`set_box_aspect(1)`），ROC 的斜线与纵轴夹角更小、P-R 是标准 45°；**`--legend-inside` 把图例放进坐标框**（ROC 右下、P-R 左下，>9 条自动两列），导出的 PNG 因此更紧凑（v10 正方形 2645×2564；v11 长方形 3589×1871）；两联图 `roc_pr` 的面板间距 0.28→0.14；改横轴时平台值按新的右边框取（`TPR@窗口右端`），所以 8→16×10⁻⁴ 后 SCTransNet/ILNet/UIU-Net 的平台从 0.88 升到 0.94；**面积指标仍报 `pAUC@5×10⁻⁴`**，该列不随画宽变化；P-R 保留 (0,1) 起点与 recall→1 的尾巴（`--pr-style v1`）；**P-R 为什么像"扇子且在半空截断"（v13 处理）**：Seal 预测是 8 位量化 + 大量硬零（`t=255` 时前景召回只有 0.25–0.61，多数方法在 28–57 % 的 GT 像素上恒为 0），recall 到不了 1，曲线右端自然停住；同时 `t` 接近 255 时整幅只剩几千个预测像素，precision 由个位数像素决定，于是 recall≈0 处冒出竖直毛刺、各条曲线分叉成扇面。v13 用两个**纯显示**开关处理、不动数据：`--pr-min-pred 50000` 丢掉"预测像素 < 5 万"的阈值（毛刺缩到几乎看不见）、`--pr-endpoint-dot` 在每条曲线末端加圆点（读作"到此为止"而非"画漏了"）；仍保留 (0,1) 哨兵，因为去掉后起点悬空（`--pr-style v2` 试过）。数据侧原因（硬零压低 recall）只能靠模型/后处理改，画图解决不了，分析见 [docs/Seal_ROC_PR曲线.md](docs/Seal_ROC_PR曲线.md)；**补充图 `v13_20261105/pr_1.{png,pdf}`**（`--pr-close`）把每条曲线从最后实测点**虚线**外推到 `(1,0)`、交接点画空心圆（实线=实测、虚线=外推）：这不是新数据，只说明"曲线本来就该到 (1,0)"——`recall=1` 时 precision 等于前景占比（Seal test 前景 105,712 px / 总 514,338,642 px = **2.06×10⁻⁴**），在 0–1 纵轴上即 0，所以补到 (1,0) 与补到 (1,2e-4) 肉眼无差；中间段按直线近似故称"大致"，虚线段不参与 pAUC/AP 积分，排名不变；补齐后各虚线在右下角**收成一束**是应有现象，不表示方法接近；**教科书式 P-R 两张补充图**：`v13_20261105/pr_2.{png,pdf}`（像素级、sklearn 惯例：256 个阈值含 `t=0`"全预测"、保留 (0,1) 哨兵，曲线自然终止于 (1,0)，AP 与 summary 一致 0.69984）与 `v13_20261105/pr_obj.{png,pdf}`（**对象级**：`recall` = 表中 Pd、`precision` = 匹配连通域 / 全部预测连通域，匹配规则与 Pd/Fa 相同；`t=128` 的 recall 与表中 Pd 逐位吻合、精度 Ours 0.960 vs 基线 0.66–0.75，Ours AP 0.890 vs 0.544–0.596，形状与参考图同形"高平台 + 右端陡降"，末端用实线同色补到 (1,0)、不画点、拐角 `--corner-radius 0.03` 贝塞尔倒角，**图例只写方法名**（AP 见 [docs/Seal_ROC_PR曲线.md](docs/Seal_ROC_PR曲线.md) 的表，要标回图上加 `--show-ap`）；图注须写明 0.71–0.92 → 1.0 那段不是实测，因对象级召回上限只有 0.71–0.92））；实现 [tools/target_pr.py](tools/target_pr.py)（输出 `results/target_pr/<stem>.json`，[tools/target_pr_all.sh](tools/target_pr_all.sh) 并行约 12 min）、[tools/plot_pr_object.py](tools/plot_pr_object.py)、[tools/plot_pr_textbook.py](tools/plot_pr_textbook.py)；**参考图"精度贴 1.0 平推"像素级做不到**——0.02 % 前景下 255 这一筒的精度只有 Ours 0.835、SAM3 0.651、DNA-Net 0.390，像素级只能从 0.83 起步；正文若配像素级 ROC 用 `pr_2`，配目标级 Pd–Fa（v12）用 `pr_obj`，两者 AP 不可互比、都不进 xlsx；图例贴紧坐标轴右缘（`bbox_to_anchor=(ax.x1+0.012, …)`，锚在固定图幅比例上会留一大片空白）；`--highlight` 指定加粗置顶的方法（默认 `Ours`，方法集里没有它时不加粗）；**红色只留给 highlight**，其余曲线从不含红色的 16 色调色板里取（`color_map()`），否则 14 条曲线时第一个基线和 Ours 会同为红色。**一致性**：像素级 `t=128` 的 precision/recall 可复原表中 F1/IoU（Ours precision 0.58130、recall 0.82963 → F1 0.68361、IoU 0.51931，与第 20 行一致；旧预测同点为 0.64637/0.59388 → 0.61912/0.44835）；目标级 `t=128` 的 Pd/Fa 与表中 13 行全部逐位吻合（Ours 0.89151 / 1.717e-05，与第 20 行一致；旧预测 0.82731 / 2.100e-06 存档于 `results/target_curves/Ours_prev_20261105.json`）。**读图**：① 面积指标报 **pAUC@5×10⁻⁴**（基线操作点 Fa@t=128 ≤ 2.4×10⁻⁴）；v8 换上 1105 的最新 Ours 后，两个窗口的 pAUC（**0.85234 / 0.89420**）与 AP（**0.69984**）都第一，像素 TPR@t=128 从 0.594 提到 **0.830**、FPR 从 6.7×10⁻⁵ 升到 1.2×10⁻⁴（仍是 9 个里第二低）；ROC 上 Ours 在 FPR≈3×10⁻⁴ 就到 0.94 平台，其余 8 个最高只有 0.737；SAM3 平台最高（0.737）但拐点在 4.9×10⁻⁴、Fa 是 Ours 的 3.6 倍，属"用更多误检换更高检出"，正文要把 Fa 一并给出；画到 8×10⁻⁴ 后按窗口积的 `pAUC@8×10⁻⁴` 会把弥散输出方法抬高，summary 两个窗口都列；② 全范围 AUC 不能用来排名（几乎不预测前景的方法 0.977–0.981），与 S/MAE 被背景主导同类；③ 目标级图（`v12_20261105/`，1105 批次）Ours 平台 Pd 0.922 最高、拐点 Fa 6.0×10⁻⁶ 比次优 HDNet（5.2×10⁻⁵）低 8.6 倍，拐点 Fa 跨度 17 倍，**目标级仍主推 log 轴**；④ 像素级 `Pd@t=128` 是前景像素召回率，与表中目标级 Pd 不同口径。曲线成品按同样目录结构同步到服务器 `Ours/roc_pr/`，重画脚本同步在服务器 `tools/`；1105 的 Ours 预测包同时上传到服务器 `Ours/1105Ours_result/Ours.zip`。**曲线与第 20 行 Ours 的八项指标现在同为 1105 这批预测**，可以互相引证；旧预测（`test_maps_20261105_prev`）的曲线与指标只作历史对照。口径、版本对照与复现命令见 [docs/Seal_ROC_PR曲线.md](docs/Seal_ROC_PR曲线.md)，预览 `docs/assets/seal_roc_pr_v13.png`（现行，全量 14 条）、`docs/assets/seal_roc_pr_v10.png`（8 个对比方法版）、`docs/assets/seal_pd_fa_v12.png`（现行目标级）、`docs/assets/seal_pd_fa_v3.png`（旧预测目标级）。
 - IoU 的边界敏感性：Seal 目标平均 14.3 像素，把 GT 膨胀/腐蚀 1 像素当预测只能得到 IoU 0.3910 / 0.0826；表中 IoU 0.19–0.31 对应约 1–2 像素边界误差，不能读作分割质量百分比，须与 Fw/F1/Pd/Fa 合看，详见 [定义对照](docs/小目标评价指标_定义与代码对照.md#iou-的边界敏感性seal-gt-实测)。
 - 实验记录：[ACM](docs/ACM_Seal实验记录.md)、[DNA-Net](docs/DNANet_Seal实验记录.md)、[MSHNet](docs/MSHNet_Seal实验记录.md)、[UIU-Net](docs/UIU-Net_Seal实验记录.md)、[SCTransNet](docs/SCTransNet_Seal实验记录.md)、[RPCANet](docs/RPCANet_Seal实验记录.md)、[HDNet](docs/HDNet_Seal实验记录.md)、[ILNet](docs/ILNet_Seal实验记录.md)、[RPCANet++](docs/RPCANet++_Seal实验记录.md)、[L2SKNet](docs/L2SKNet_Seal实验记录.md)、[BGM](docs/BGM_Seal实验记录.md)、[DRPCA-Net](docs/DRPCA-Net_Seal实验记录.md)、[DURD](docs/DURD_Seal实验记录.md)、[DHiF](docs/DHiF_Seal实验记录.md)，汇总见 [Seal全监督基线评估汇总](docs/Seal全监督基线评估汇总.md)，定性图见 [Seal定性对比图](docs/Seal定性对比图.md)。
 
